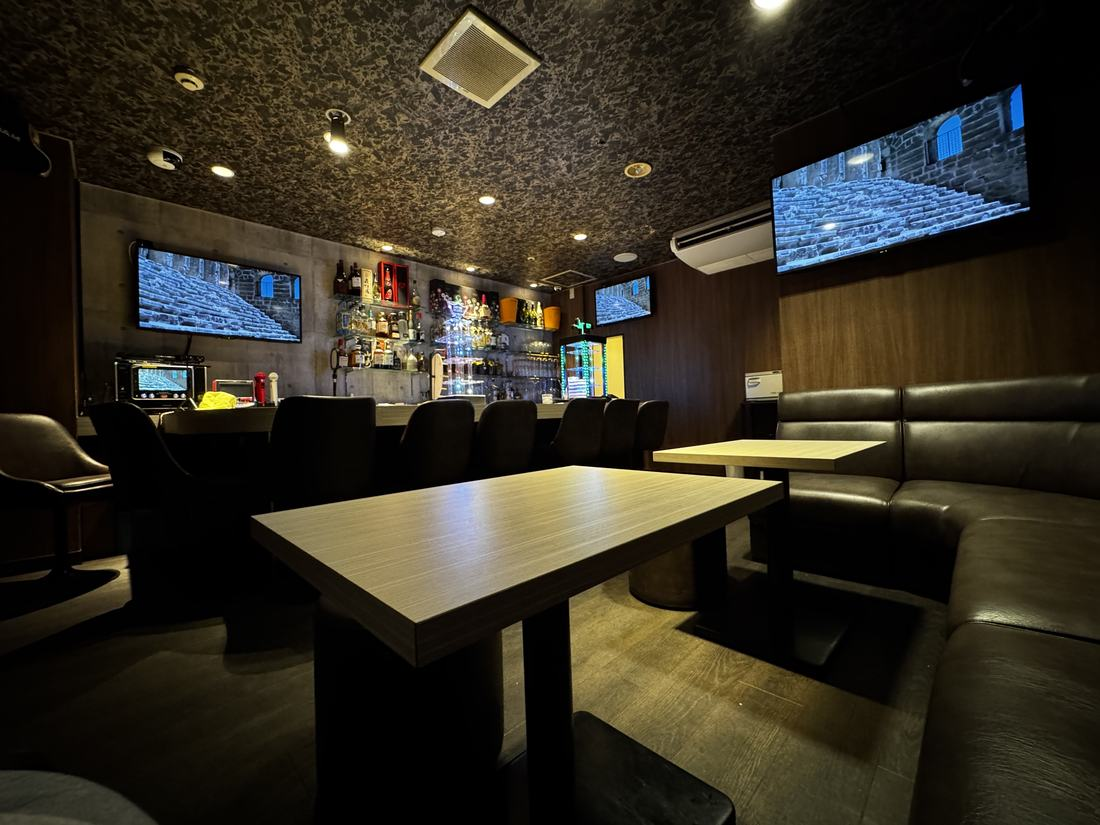
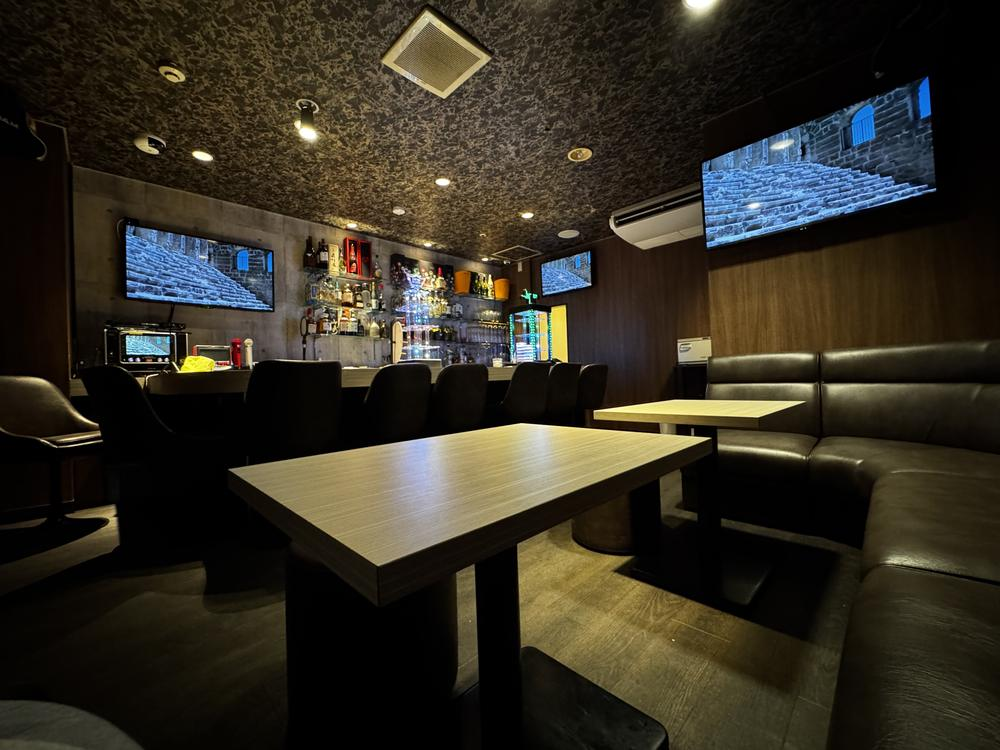
Add files via upload

diff --git a/index.html b/index.html
@@ -4,7 +4,7 @@
 <meta charset="UTF-8">
 <meta name="viewport" content="width=device-width, initial-scale=1.0, viewport-fit=cover">
 <title>THE VIP BAR — 名古屋・栄の紹介制カラオケバー</title>
-<meta name="description" content="名古屋・栄の紹介制カラオケバー THE VIP BAR。22:00〜朝5時まで、LIVE DAM完備。完全紹介制で、V.I.P なお客様向けの空間。">
+<meta name="description" content="名古屋・栄の紹介制カラオケバー THE VIP BAR。ご紹介のある方だけの、静かな一室。22:00〜朝5時、貸切のご相談も承ります。">
 <link rel="icon" href="/favicon.ico" sizes="any">
 <link rel="icon" type="image/png" sizes="32x32" href="/icon-32.png">
 <link rel="icon" type="image/png" sizes="16x16" href="/icon-16.png">
@@ -13,7 +13,7 @@
 <link rel="canonical" href="https://the-vip-bar.com/">
 <meta property="og:type" content="website">
 <meta property="og:title" content="THE VIP BAR — 名古屋・栄の紹介制カラオケバー">
-<meta property="og:description" content="22:00〜朝5時。紹介制のカラオケバー。V.I.P の為の空間。">
+<meta property="og:description" content="ご紹介のある方だけの、静かな一室。22:00〜朝5時。">
 <meta property="og:url" content="https://the-vip-bar.com/">
 <meta property="og:image" content="https://the-vip-bar.com/ogp.jpg">
 <meta property="og:image:width" content="1200">
@@ -180,6 +180,36 @@ body{
 .list .n{ letter-spacing:.1em; color:#C9B9C1 }
 .list .d{ flex:1; border-bottom:1px dotted rgba(255,92,150,.24); transform:translateY(-4px) }
 .list .p{ font-family:"Josefin Sans",sans-serif; font-size:clamp(13px,3.3vw,15px); color:var(--neon-soft); white-space:nowrap }
+.bottles{
+  display:flex; justify-content:center; align-items:flex-end;
+  gap:clamp(6px,2vw,14px); margin:clamp(4px,1.2vw,8px) 0 0;
+}
+.bottles figure{ flex:1; max-width:86px; text-align:center }
+.bottles img{
+  width:100%; height:auto; display:block;
+  filter:drop-shadow(0 6px 22px rgba(255,92,150,.28));
+  transition:transform .4s;
+}
+.bottles figure:hover img{ transform:translateY(-6px) }
+.bottles figcaption{ margin-top:clamp(6px,1.8vw,9px) }
+.bottles .bn{
+  display:block; font-family:"Josefin Sans",sans-serif; font-weight:300;
+  font-size:clamp(9.5px,2.5vw,11px); letter-spacing:.2em; color:#C9B9C1;
+}
+.bottles .bp{
+  display:block; margin-top:4px;
+  font-family:"Josefin Sans",sans-serif; font-weight:400;
+  font-size:clamp(11px,2.9vw,13px); letter-spacing:.06em; color:var(--neon-soft);
+}
+
+.sub-head{
+  margin-top:clamp(12px,3vw,18px); padding-top:clamp(9px,2.2vw,12px);
+  border-top:1px solid var(--hair);
+  font-family:"Josefin Sans",sans-serif; font-weight:300;
+  font-size:clamp(10px,2.7vw,12px); letter-spacing:.44em;
+  text-transform:uppercase; color:var(--neon-dim); text-align:center;
+  margin-bottom:clamp(8px,2.2vw,12px);
+}
 .tax{ margin-top:clamp(16px,4vw,24px); padding-top:14px; border-top:1px solid var(--hair); font-family:"Josefin Sans",sans-serif; font-size:clamp(10px,2.6vw,12px); letter-spacing:.38em; color:var(--mute); text-align:center }
 
 /* ===== PAYMENT(再構成) ===== */
@@ -373,7 +403,7 @@ body{
     <div class="card__in">
       <img class="hero__logo rv" src="logo.png" alt="THE V.I.P BAR">
       <p class="hero__en rv">MEMBERS ONLY SONG BAR<br>IN SAKAE, NAGOYA</p>
-      <p class="hero__jp rv">名古屋・栄の紹介制カラオケバー<br><span class="hero__acc">終電を逃した夜も、朝5時まで。</span></p>
+      <p class="hero__jp rv">名古屋・栄の紹介制カラオケバー<br><span class="hero__acc">ご紹介のある方だけの、静かな一室。</span></p>
       <p class="hero__meta rv">OPEN 22:00 – 5:00　L.O. 4:00<br>CLOSED SUNDAY</p>
     </div>
     <div class="cue"><span>SCROLL</span><i></i></div>
@@ -386,11 +416,11 @@ body{
       <h2 class="head rv">紹介のある方だけ、<br>どうぞ。</h2>
       <p class="body rv">
         栄3丁目、プリンセス遠山ビルの5階。<br>
-        通っている方の紹介でだけ入れる、<br>
-        小さなカラオケバーです。<br><br>
+        ご紹介のある方だけがお通りいただける、<br>
+        カウンターとボックスの小さな店です。<br><br>
         歌っても、話しても、飲むだけでも。<br>
         カラオケは LIVE DAM の最新機種。<br>
-        小計20万円から貸切も承ります。
+        貸切のご相談も承ります。
       </p>
     </div>
   </section>
@@ -438,14 +468,30 @@ body{
         <div class="charge"><b>チャージ（2時間）</b><span>¥5,000</span></div>
         <p class="note">※ 延長は2時間ごとに ¥5,000</p>
         <ul class="list">
-          <li><span class="n">茉莉花 ／ JAPAN</span><span class="d"></span><span class="p">¥3,000</span></li>
-          <li><span class="n">吉四六 ／ 中々 ／ メーカーズ</span><span class="d"></span><span class="p">¥10,000</span></li>
-          <li><span class="n">魔王</span><span class="d"></span><span class="p">¥25,000</span></li>
-          <li><span class="n">白州 ／ 響 ／ 山崎</span><span class="d"></span><span class="p">¥30,000</span></li>
-          <li><span class="n">カクテル 各種</span><span class="d"></span><span class="p">¥1,000</span></li>
-          <li><span class="n">ショット</span><span class="d"></span><span class="p">¥2,000〜</span></li>
+          <li><span class="n">茉莉花 ／ JAPAN</span><span class="d"></span><span class="p">¥8,000</span></li>
+          <li><span class="n">吉四六</span><span class="d"></span><span class="p">¥13,000</span></li>
+          <li><span class="n">魔王</span><span class="d"></span><span class="p">¥30,000</span></li>
+          <li><span class="n">白州 ／ 響 ／ 山崎</span><span class="d"></span><span class="p">¥35,000</span></li>
+          <li><span class="n">ドリンク S ／ M ／ L</span><span class="d"></span><span class="p">¥2,000〜</span></li>
+          <li><span class="n">ショット</span><span class="d"></span><span class="p">¥4,000</span></li>
         </ul>
-        <p class="tax">Service 10% / Tax 10%</p>
+        <p class="sub-head">Original champagne</p>
+        <div class="bottles">
+          <figure>
+            <img src="bottle_pink.png" alt="V.I.P PINK" loading="lazy">
+            <figcaption><span class="bn">V.I.P PINK</span><span class="bp">¥25,000</span></figcaption>
+          </figure>
+          <figure>
+            <img src="bottle_gold.png" alt="V.I.P GOLD" loading="lazy">
+            <figcaption><span class="bn">V.I.P GOLD</span><span class="bp">¥50,000</span></figcaption>
+          </figure>
+          <figure>
+            <img src="bottle_black.png" alt="V.I.P BLACK" loading="lazy">
+            <figcaption><span class="bn">V.I.P BLACK</span><span class="bp">¥100,000</span></figcaption>
+          </figure>
+        </div>
+        <p class="note" style="margin-top:10px">シャンパンは ¥30,000 〜 ¥500,000 までご用意しております。</p>
+        <p class="tax">Service 20% / Tax 10%</p>
       </div>
     </div>
   </section>
